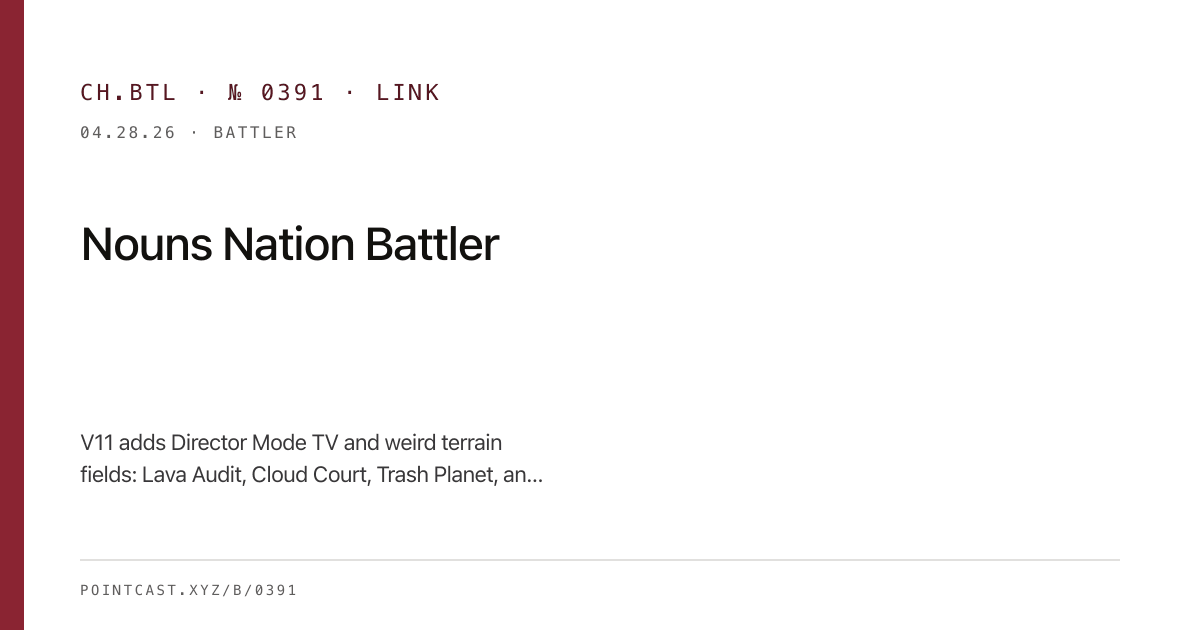
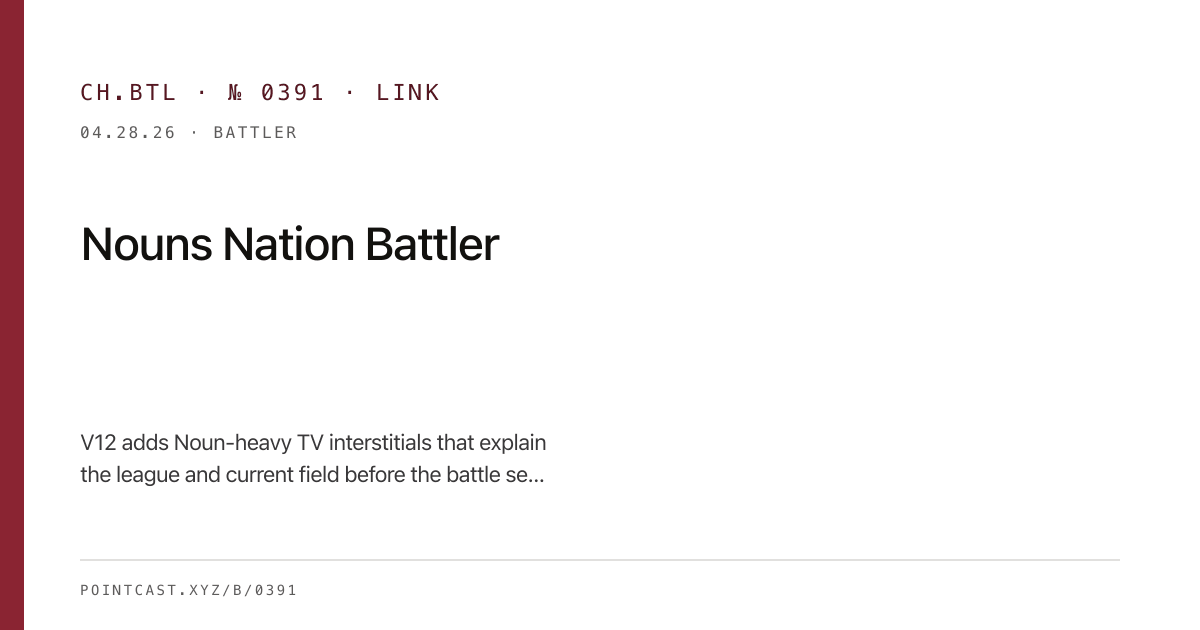
Add battler tv interstitials

Changed region(s): [[0.0617, 0.6635, 0.4625, 0.7841]]

diff --git a/public/games/nouns-nation-battler/app.js b/public/games/nouns-nation-battler/app.js
@@ -213,6 +213,12 @@ const el = {
   tvReplayCue: document.querySelector("#tvReplayCue"),
   tvPath: document.querySelector("#tvPath"),
   tvCastHint: document.querySelector("#tvCastHint"),
+  tvInterstitial: document.querySelector("#tvInterstitial"),
+  tvInterstitialKicker: document.querySelector("#tvInterstitialKicker"),
+  tvInterstitialTitle: document.querySelector("#tvInterstitialTitle"),
+  tvInterstitialBody: document.querySelector("#tvInterstitialBody"),
+  tvInterstitialMeta: document.querySelector("#tvInterstitialMeta"),
+  tvInterstitialNouns: document.querySelector("#tvInterstitialNouns"),
 };
 
 const state = {
@@ -238,6 +244,8 @@ const state = {
   directorCue: "Director wide",
   replayCue: "Replay bay armed",
   replayClock: 0,
+  interstitialClock: 0,
+  interstitialSignature: "",
   autoNext: true,
   nextTimer: null,
   rootingFor: localStorage.getItem("pc:nouns-nation-root") || "",
@@ -494,6 +502,8 @@ function resetMatch() {
   state.directorCue = "Director wide";
   state.replayCue = "Replay bay armed";
   state.replayClock = 0;
+  state.interstitialClock = isTvMode ? 560 : 0;
+  state.interstitialSignature = "";
   state.battleType = currentBattleType();
   state.weather = state.battleType.weather[Math.floor(Math.random() * state.battleType.weather.length)];
   state.moveHistory = [];
@@ -536,7 +546,7 @@ function resetMatch() {
 
   addLog(`${gangs[0].name} and ${gangs[1].name} enter the field, 30 strong on each side.`);
   addLog(state.battleType.log);
-  recordMove(state.league.phase === "playoffs" ? "BOWL" : "V11", `${state.battleType.name} armed`);
+  recordMove(state.league.phase === "playoffs" ? "BOWL" : "V12", `${state.battleType.name} armed`);
   showToast(state.league.phase === "champion" ? `${state.league.champion} are champions` : "30 vs 30. League match is live.");
   render();
   state.match += 1;
@@ -1347,6 +1357,7 @@ function update(time = 0) {
     state.terrainClock -= dt;
     state.directorClock -= dt;
     state.replayClock = Math.max(0, state.replayClock - dt);
+    state.interstitialClock = Math.max(0, state.interstitialClock - dt);
     if (state.specialClock <= 0) {
       state.specialClock = rand(260, 430);
       gangCall();
@@ -1503,6 +1514,77 @@ function renderTv(left, right) {
   el.tvDirectorCue.textContent = state.directorCue;
   el.tvReplayCue.textContent = state.replayClock > 0 ? state.replayCue : directorFieldLine();
   el.tvPath.textContent = tvPathLine();
+  renderTvInterstitial(left, right);
+}
+
+function renderTvInterstitial(left, right) {
+  if (!isTvMode || !el.tvInterstitial) return;
+  const active = state.interstitialClock > 0;
+  el.tvInterstitial.classList.toggle("show", active);
+  if (!active) return;
+  const deck = interstitialDeck(left, right);
+  const index = state.interstitialClock > 280 ? 0 : 1;
+  const card = deck[index] || deck[0];
+  el.tvInterstitial.classList.toggle("field-guide", index === 1);
+  const signature = `${index}:${card.title}:${card.body}:${card.meta}`;
+  if (state.interstitialSignature === signature) return;
+  state.interstitialSignature = signature;
+  el.tvInterstitialKicker.textContent = card.kicker;
+  el.tvInterstitialTitle.textContent = card.title;
+  el.tvInterstitialBody.textContent = card.body;
+  el.tvInterstitialMeta.textContent = card.meta;
+  el.tvInterstitialNouns.innerHTML = interstitialNouns(index);
+}
+
+function interstitialDeck(left, right) {
+  const league = state.league;
+  const phase = league.phase === "regular"
+    ? `Day ${league.day + 1} of ${LEAGUE_DAYS}, slate ${league.slot + 1}`
+    : league.phase === "playoffs" ? tvLeagueLine() : "Nouns Bowl complete";
+  const championLine = league.phase === "champion"
+    ? `${league.champion} already own the Nouns Bowl. Reset starts a fresh two-week run.`
+    : `${left + right} Nouns are live now. The table runs two weeks, then the top four enter the Nouns Bowl.`;
+  return [
+    {
+      kicker: "League interstitial",
+      title: currentFixtureLabel(),
+      body: championLine,
+      meta: `${phase} · ${standings().slice(0, 3).map((row) => `${row.gang.short} ${row.wins}-${row.losses}`).join(" · ")}`,
+    },
+    {
+      kicker: "Field guide",
+      title: state.battleType.name,
+      body: battleTypeOverview(),
+      meta: `${gangs[0].short} ${left}/30 standing · ${gangs[1].short} ${right}/30 standing · ${fieldStatLabel()}: ${fieldStatLine(statLeader("hp", (unit) => unit.down ? -1 : unit.morale * unit.hp))}`,
+    },
+  ];
+}
+
+function battleTypeOverview() {
+  if (state.battleType.id === "rift") return "Element lanes boost matched Nouns. Spark crits, Tide heals, Bloom guards, and Shade accelerates specials.";
+  if (state.battleType.id === "crown") return "The center crown picks a holder. Crowned Nouns gain guard, haste, special charge, and pressure pulses.";
+  if (state.battleType.id === "lava") return "Audit lanes burn campers but charge specials faster. Watch the middle lanes for risky power swings.";
+  if (state.battleType.id === "cloud") return "Cloud platforms lift Nouns into haste and guard while crosswinds bend the lane shape.";
+  if (state.battleType.id === "trash") return "Scrap piles can grant sudden tech or trip a Noun at the worst possible moment.";
+  if (state.battleType.id === "fog") return "Fog dulls long shots and rewards close ambushes. Bonkers get louder when the field gets tight.";
+  return "Open field rules reward center control, morale surges, healing saves, and role specials.";
+}
+
+function interstitialNouns(index) {
+  const featured = index === 0
+    ? [...aliveUnits(0).slice(0, 4), ...aliveUnits(1).slice(0, 4)]
+    : [...state.units]
+      .filter((unit) => !unit.down)
+      .sort((a, b) => (
+        (b.stats.damage + b.stats.kos * 30 + b.stats.heals * 0.4) - (a.stats.damage + a.stats.kos * 30 + a.stats.heals * 0.4)
+      ))
+      .slice(0, 8);
+  return featured.map((unit) => `
+    <figure style="--team:${gangs[unit.team].color}">
+      <img alt="" src="${unit.asset}" />
+      <figcaption>#${unit.number} ${gangs[unit.team].short}</figcaption>
+    </figure>
+  `).join("");
 }
 
 function cueReplay(text, unit = null) {
@@ -1861,6 +1943,9 @@ window.addEventListener("keydown", (event) => {
   } else if (key === "r") {
     el.resetLeagueButton.click();
     flashTvHint("League reset");
+  } else if (key === "i") {
+    state.interstitialClock = 560;
+    flashTvHint("Interstitial replay");
   }
 });
 
@@ -1870,7 +1955,7 @@ function flashTvHint(text) {
   el.tvCastHint.classList.add("flash");
   clearTimeout(el.tvCastHint.timer);
   el.tvCastHint.timer = setTimeout(() => {
-    el.tvCastHint.textContent = "Space pause · N next · Q quick sim · D sim day · R reset";
+    el.tvCastHint.textContent = "Space pause · N next · Q quick sim · D sim day · I brief · R reset";
     el.tvCastHint.classList.remove("flash");
   }, 1200);
 }

diff --git a/src/pages/nouns-nation-battler.json.ts b/src/pages/nouns-nation-battler.json.ts
@@ -7,17 +7,17 @@ const payload = {
   $schema: 'https://pointcast.xyz/for-agents',
   generatedAt: new Date().toISOString(),
   name: 'Nouns Nation Battler',
-  status: 'playable browser prototype v11 director fields',
+  status: 'playable browser prototype v12 tv interstitials',
   human: 'https://pointcast.xyz/nouns-nation-battler',
   playable: 'https://pointcast.xyz/games/nouns-nation-battler/index.html',
   tv: 'https://pointcast.xyz/nouns-nation-battler-tv',
   image: 'https://pointcast.xyz/images/og/battle.png',
-  intent: 'A watchable Nouns auto-battler where numbered Nouns players and eight rotating gangs play a two-week 30 vs 30 league into a Nouns Bowl final, with scout cards, sim controls, Director Mode TV, Amplifier Rift, Crown Rush, weird terrain battle types, a 20-poster type-heavy Nouns series, and recaps.',
+  intent: 'A watchable Nouns auto-battler where numbered Nouns players and eight rotating gangs play a two-week 30 vs 30 league into a Nouns Bowl final, with scout cards, sim controls, Director Mode TV, Noun-heavy overview interstitials, Amplifier Rift, Crown Rush, weird terrain battle types, a 20-poster type-heavy Nouns series, and recaps.',
   game: {
     genre: 'auto battler',
     matchSize: '30 vs 30',
-    mode: 'fully automated two-week league watch mode with Open Field, Amplifier Rift, Crown Rush, Lava Audit, Cloud Court, Trash Planet, and Fog Bowl battle types plus fullscreen Director Mode TV cast',
-    controls: ['next match', 'quick sim', 'sim day', 'pause/resume', 'auto-next', 'reset league', 'slow/live/rush speed', 'root left', 'root right', 'click Noun to scout', 'TV keyboard: space pause', 'TV keyboard: N next match', 'TV keyboard: Q quick sim', 'TV keyboard: D sim day', 'TV keyboard: R reset league'],
+    mode: 'fully automated two-week league watch mode with Open Field, Amplifier Rift, Crown Rush, Lava Audit, Cloud Court, Trash Planet, and Fog Bowl battle types plus fullscreen Director Mode TV cast and overview interstitials',
+    controls: ['next match', 'quick sim', 'sim day', 'pause/resume', 'auto-next', 'reset league', 'slow/live/rush speed', 'root left', 'root right', 'click Noun to scout', 'TV keyboard: space pause', 'TV keyboard: N next match', 'TV keyboard: Q quick sim', 'TV keyboard: D sim day', 'TV keyboard: I replay interstitial', 'TV keyboard: R reset league'],
     league: {
       teams: 8,
       regularSeasonDays: 14,
@@ -30,7 +30,7 @@ const payload = {
     battleTypes: ['Open Field Clash', 'Amplifier Rift', 'Crown Rush', 'Lava Audit', 'Cloud Court', 'Trash Planet', 'Fog Bowl'],
     elements: ['Spark', 'Tide', 'Bloom', 'Shade'],
     advancedMoves: ['Breakaway dash', 'Noggles slam', 'Auction volley', 'Quorum rally', 'Emergency mint', 'Element amplifier overload'],
-    systems: ['numbered rosters', 'scout cards', 'top performer roster list', 'quick simulation', 'day simulation', 'recent league recaps', 'live match stat leaders', 'fullscreen TV cast', 'Director Mode camera cues', 'replay bay', 'camera target spotlighting', 'watch-party story cards', 'Market Pulse card', 'MVP Watch card', 'Comeback Line card', 'broadcast scoreboard', 'QR handoff', 'keyboard cast controls', 'two-week schedule', 'standings', 'playoff bracket', 'Nouns Bowl champion', 'fan heat', 'morale', 'cooldowns', 'healing', 'gang surges', 'status effects', 'center-field control', 'amplifier rift field', 'elemental affinity lanes', 'amplifier overloads', 'crown rush field', 'center crown control', 'crown pressure pulses', 'lava audit lanes', 'cloud court lift zones', 'trash planet scrap tech', 'fog bowl ambush cover', '20-poster type-heavy Nouns series', 'persistent local season stats', 'rooting preference'],
+    systems: ['numbered rosters', 'scout cards', 'top performer roster list', 'quick simulation', 'day simulation', 'recent league recaps', 'live match stat leaders', 'fullscreen TV cast', 'match-start overview interstitials', 'Noun-heavy field guide interstitial', 'Director Mode camera cues', 'replay bay', 'camera target spotlighting', 'watch-party story cards', 'Market Pulse card', 'MVP Watch card', 'Comeback Line card', 'broadcast scoreboard', 'QR handoff', 'keyboard cast controls', 'two-week schedule', 'standings', 'playoff bracket', 'Nouns Bowl champion', 'fan heat', 'morale', 'cooldowns', 'healing', 'gang surges', 'status effects', 'center-field control', 'amplifier rift field', 'elemental affinity lanes', 'amplifier overloads', 'crown rush field', 'center crown control', 'crown pressure pulses', 'lava audit lanes', 'cloud court lift zones', 'trash planet scrap tech', 'fog bowl ambush cover', '20-poster type-heavy Nouns series', 'persistent local season stats', 'rooting preference'],
   },
   nounsAssets: {
     source: 'Local nouns-assets image-data plus Nouns buildSVG renderer',

diff --git a/public/games/nouns-nation-battler/styles.css b/public/games/nouns-nation-battler/styles.css
@@ -1600,6 +1600,130 @@ body.tv-mode {
   color: #050308;
 }
 
+.tv-interstitial {
+  display: none;
+}
+
+.tv-mode .tv-interstitial.show {
+  position: fixed;
+  left: 28px;
+  right: 28px;
+  bottom: 34px;
+  z-index: 36;
+  min-height: 210px;
+  display: grid;
+  grid-template-columns: minmax(360px, 0.84fr) minmax(380px, 1.16fr);
+  gap: 18px;
+  align-items: stretch;
+  padding: 18px;
+  border: 4px solid #fffdf5;
+  background:
+    linear-gradient(90deg, rgba(5, 3, 8, 0.98), rgba(21, 22, 26, 0.88)),
+    #050308;
+  color: #fffdf5;
+  box-shadow: 8px 8px 0 rgba(215, 255, 63, 0.72);
+  pointer-events: none;
+}
+
+.tv-mode .tv-interstitial.show.field-guide {
+  box-shadow: 8px 8px 0 rgba(245, 200, 75, 0.75);
+}
+
+.tv-interstitial-copy {
+  min-width: 0;
+  display: grid;
+  align-content: center;
+  gap: 8px;
+}
+
+.tv-interstitial-copy span,
+.tv-interstitial-copy em {
+  font-family: var(--font-mono, ui-monospace, monospace);
+  font-style: normal;
+  font-weight: 1000;
+  text-transform: uppercase;
+}
+
+.tv-interstitial-copy span {
+  width: fit-content;
+  max-width: 100%;
+  overflow: hidden;
+  white-space: nowrap;
+  text-overflow: ellipsis;
+  padding: 4px 8px;
+  background: #d7ff3f;
+  color: #050308;
+  font-size: clamp(0.72rem, 1.05vw, 1rem);
+}
+
+.tv-interstitial-copy strong {
+  min-width: 0;
+  overflow: hidden;
+  white-space: nowrap;
+  text-overflow: ellipsis;
+  font-size: clamp(1.8rem, 4vw, 4.8rem);
+  line-height: 0.92;
+  letter-spacing: 0;
+}
+
+.tv-interstitial-copy p {
+  margin: 0;
+  max-width: 820px;
+  font-size: clamp(1rem, 1.75vw, 1.45rem);
+  font-weight: 850;
+  line-height: 1.2;
+}
+
+.tv-interstitial-copy em {
+  min-width: 0;
+  overflow: hidden;
+  white-space: nowrap;
+  text-overflow: ellipsis;
+  color: #f5c84b;
+  font-size: clamp(0.78rem, 1.1vw, 1rem);
+}
+
+.tv-interstitial-nouns {
+  min-width: 0;
+  display: grid;
+  grid-template-columns: repeat(8, minmax(54px, 1fr));
+  align-items: end;
+  gap: 8px;
+  padding: 8px;
+  border: 2px solid rgba(255, 253, 245, 0.7);
+  background:
+    linear-gradient(180deg, rgba(255, 253, 245, 0.08), rgba(255, 253, 245, 0.18));
+}
+
+.tv-interstitial-nouns figure {
+  min-width: 0;
+  margin: 0;
+  display: grid;
+  justify-items: center;
+  gap: 5px;
+}
+
+.tv-interstitial-nouns img {
+  width: clamp(48px, 5.3vw, 96px);
+  height: clamp(48px, 5.3vw, 96px);
+  image-rendering: pixelated;
+  border: 3px solid var(--team);
+  background: #fffdf5;
+  box-shadow: 4px 4px 0 rgba(21, 22, 26, 0.78);
+}
+
+.tv-interstitial-nouns figcaption {
+  max-width: 100%;
+  overflow: hidden;
+  white-space: nowrap;
+  text-overflow: ellipsis;
+  padding: 2px 5px;
+  background: var(--team);
+  color: #fffdf5;
+  font-size: clamp(0.58rem, 0.8vw, 0.76rem);
+  font-weight: 1000;
+}
+
 .tv-mode .topbar {
   padding: 18px 28px 10px;
   background: #050308;
@@ -1697,6 +1821,18 @@ body.tv-mode {
 
   .tv-mode .tv-cast-hint {
     max-width: calc(100vw - 24px);
+  }
+
+  .tv-mode .tv-interstitial.show {
+    left: 14px;
+    right: 14px;
+    bottom: 16px;
+    min-height: 0;
+    grid-template-columns: 1fr;
+  }
+
+  .tv-interstitial-nouns {
+    grid-template-columns: repeat(4, minmax(54px, 1fr));
   }
 }
 

diff --git a/public/games/nouns-nation-battler/index.html b/public/games/nouns-nation-battler/index.html
@@ -59,7 +59,17 @@
             <span>scan to watch/control</span>
           </div>
         </div>
-        <div class="tv-cast-hint" id="tvCastHint">Space pause · N next · Q quick sim · D sim day · R reset</div>
+        <div class="tv-cast-hint" id="tvCastHint">Space pause · N next · Q quick sim · D sim day · I brief · R reset</div>
+      </section>
+
+      <section class="tv-interstitial" id="tvInterstitial" aria-label="broadcast interstitial">
+        <div class="tv-interstitial-copy">
+          <span id="tvInterstitialKicker">League brief</span>
+          <strong id="tvInterstitialTitle">Nouns Nation Battler</strong>
+          <p id="tvInterstitialBody">Two gangs enter the field, thirty Nouns per side, fully automated.</p>
+          <em id="tvInterstitialMeta">Top four reach the Nouns Bowl.</em>
+        </div>
+        <div class="tv-interstitial-nouns" id="tvInterstitialNouns" aria-hidden="true"></div>
       </section>
 
       <section class="league-panel" aria-label="league season">
@@ -90,7 +100,7 @@
         <div class="match-core">
           <div class="minor">Nouns Nation Battler</div>
           <h1 id="matchTitle">Open Field Clash</h1>
-          <div class="source-badge">V11 director mode / weird fields / official Nouns SVG parts</div>
+          <div class="source-badge">V12 TV interstitials / director fields / official Nouns SVG parts</div>
           <div class="controls">
             <button id="newMatchButton" type="button">Next Match</button>
             <button id="quickSimButton" type="button">Quick Sim</button>

diff --git a/docs/prd/nouns-nation-battler-league.md b/docs/prd/nouns-nation-battler-league.md
@@ -109,6 +109,14 @@ Nouns Nation Battler should evolve from a single-match watch toy into a tiny aut
 - Give each new field a visible terrain skin, weather layer, field zones, stat-strip language, TV state, and periodic field events.
 - Let the new terrains alter match tactics: lava lanes burn and charge specials, cloud platforms grant lift, trash piles produce scrap tech and trips, and fog rewards close-range ambushes while dulling ranged shots.
 
+## V12 TV Interstitial Additions
+
+- Add TV-only match-start interstitials that explain what the league is doing without pausing the automated match.
+- Include a League Interstitial card with matchup, phase, live Noun count, standings context, and actual generated Noun sprites.
+- Include a Field Guide card with the current battle type rules, field stat context, live survivor counts, and actual generated Noun sprites.
+- Add `I` as a TV keyboard shortcut to replay the interstitial deck on demand.
+- Keep interstitials local/client-only and non-blocking so they work inside the existing cast iframe.
+
 ## Persistence
 
 - Store league state in `localStorage` under `pc:nouns-nation-league-v4`.
@@ -132,5 +140,6 @@ Nouns Nation Battler should evolve from a single-match watch toy into a tiny aut
 - Crown Rush matches display a visibly different field with a center crown, crowned Noun state, and crown pressure events.
 - TV mode shows Director Mode camera/replay cues and highlights the currently featured Noun.
 - Lava Audit, Cloud Court, Trash Planet, and Fog Bowl can be forced with `?type=lava`, `?type=cloud`, `?type=trash`, and `?type=fog`.
+- TV mode shows a Noun-heavy League Interstitial and Field Guide at match start, and `I` replays the overview deck.
 - `npm run build` succeeds.
 - The game remains playable inside the Pointcast iframe.
